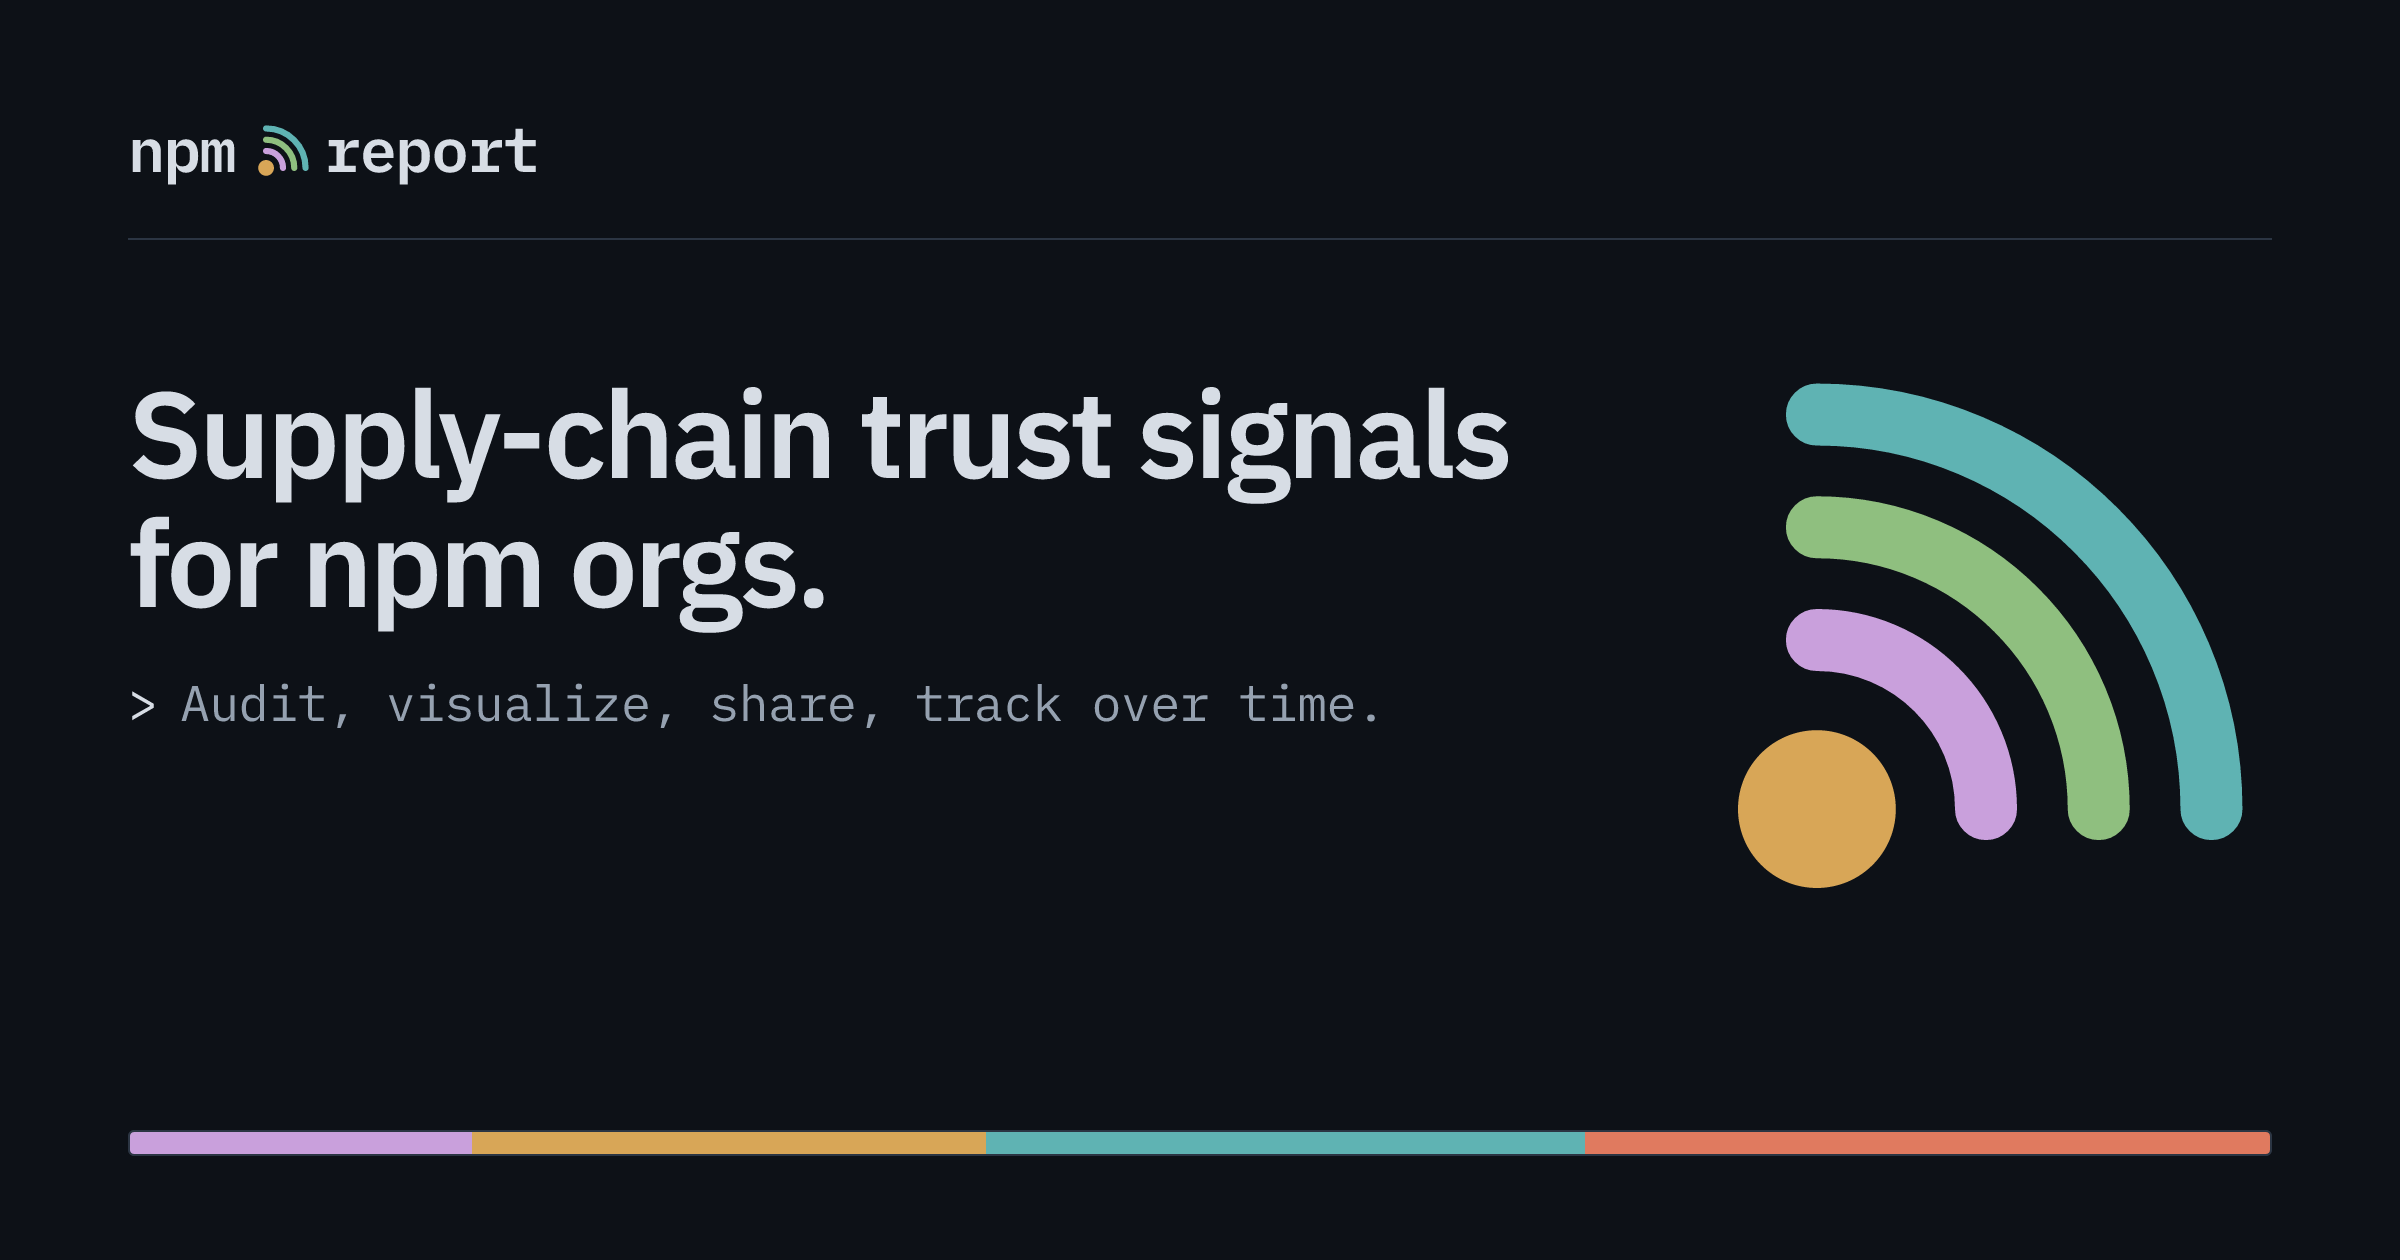
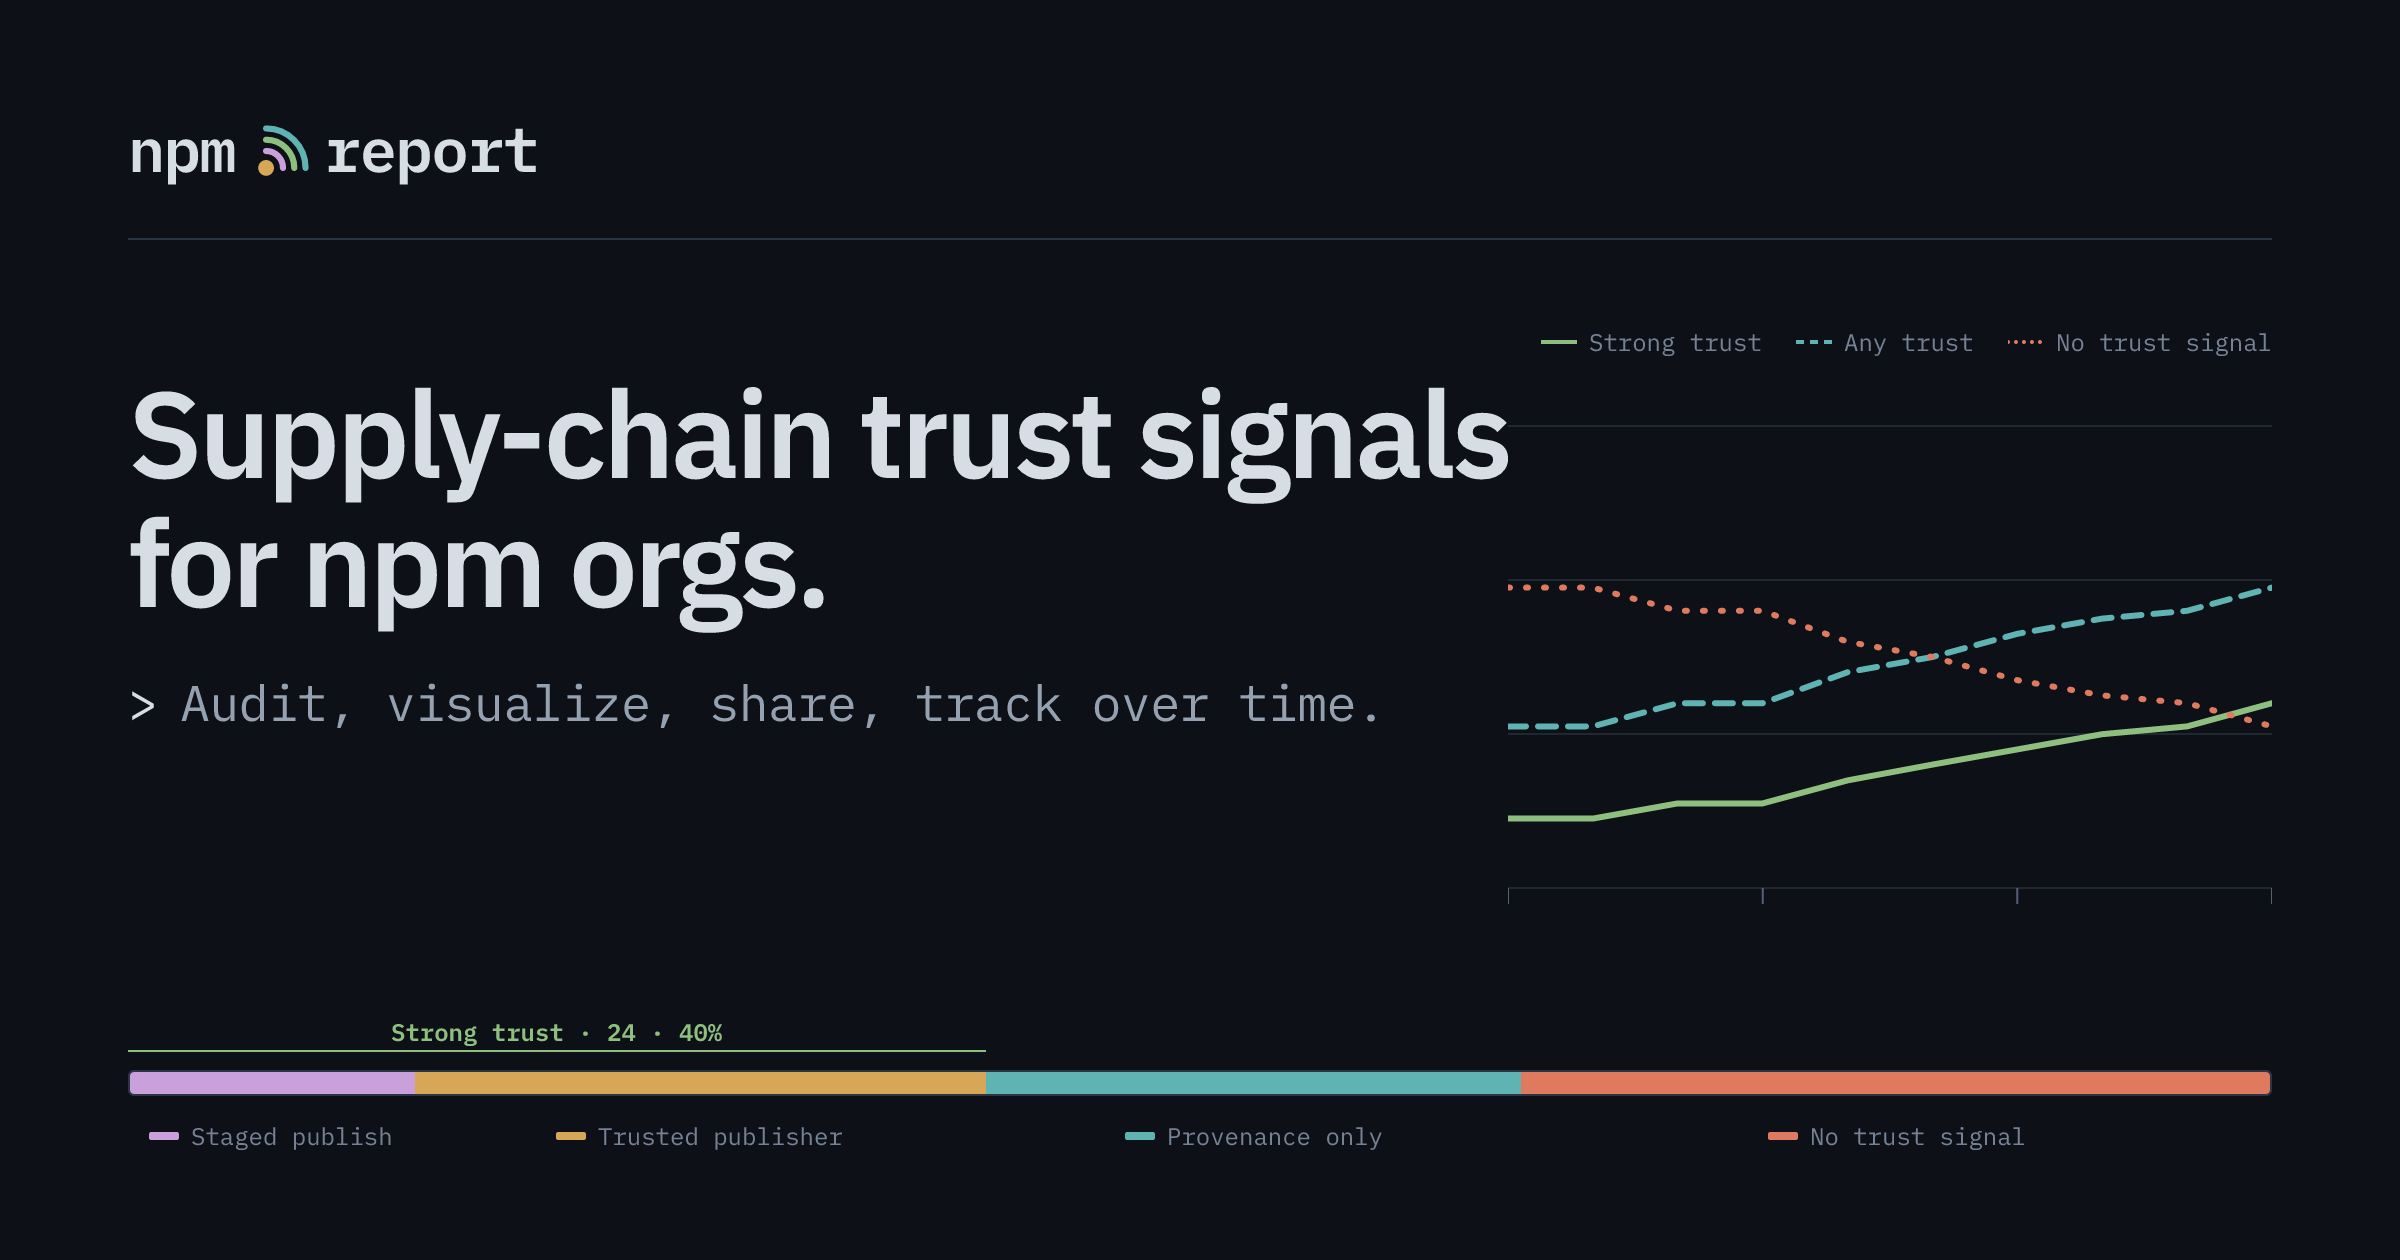
feat(og): add example charts to static OG (#4)
and refactor to reuse code between static and dynamic OG

diff --git a/netlify/functions/_shared/og-cards.ts b/netlify/functions/_shared/og-cards.ts
@@ -71,17 +71,33 @@ export const OG_CARD_STYLES = `
     flex: 0 0 auto;
     color: #d7dde5;
   }
-  .home-mark {
+  .home-chart {
     position: absolute;
     top: 165px;
-    right: 52px;
-    width: 310px;
-    height: 310px;
+    right: 64px;
+    width: 382px;
+    height: 294px;
+    display: flex;
+    flex-direction: column;
+    gap: 10px;
+  }
+  .home-chart svg {
+    display: block;
+    width: 100%;
+    height: 272px;
+  }
+  .home-chart .home-chart-legend {
+    justify-content: flex-end;
+  }
+  .home-strong-summary {
+    position: absolute;
+    top: 510px;
+    left: 64px;
   }
   .home-spectrum {
     position: absolute;
     right: 64px;
-    bottom: 52px;
+    bottom: 82px;
     left: 64px;
     display: flex;
     height: 13px;
@@ -90,10 +106,24 @@ export const OG_CARD_STYLES = `
     border-radius: 3px;
     background: #151b24;
   }
-  .home-spectrum span:nth-child(1) { width: 16%; background: #c9a0dc; }
-  .home-spectrum span:nth-child(2) { width: 24%; background: #d8a657; }
-  .home-spectrum span:nth-child(3) { width: 28%; background: #5fb3b3; }
-  .home-spectrum span:nth-child(4) { width: 32%; background: #e07a5f; }
+  .home-spectrum-key {
+    position: absolute;
+    top: 559px;
+    display: flex;
+    height: 18px;
+    align-items: center;
+    justify-content: center;
+    gap: 6px;
+    color: #758296;
+    font-family: "IBM Plex Mono";
+    font-size: 12px;
+    line-height: 18px;
+  }
+  .home-spectrum-swatch {
+    width: 15px;
+    height: 4px;
+    border-radius: 1px;
+  }
   .report-card {
     flex-direction: column;
     padding: 50px 56px 48px;
@@ -333,6 +363,27 @@ const TRUST_LEVELS = [
   { key: "none", label: "No trust signal", color: "#e07a5f", variant: "risk" },
 ] as const;
 
+type TrustSummary = NonNullable<ReportSocialRow["trust"]>;
+type TrendPoint = { x: number; strong: number; any: number; none: number };
+
+const HOME_TRUST: TrustSummary = {
+  total: 60,
+  byLevel: { stagedPublish: 8, trustedPublisher: 16, provenance: 15, none: 21 },
+};
+
+const HOME_TREND = [
+  { strong: 15, any: 35, none: 65 },
+  { strong: 15, any: 35, none: 65 },
+  { strong: 18.3, any: 40, none: 60 },
+  { strong: 18.3, any: 40, none: 60 },
+  { strong: 23.3, any: 46.7, none: 53.3 },
+  { strong: 26.7, any: 50, none: 50 },
+  { strong: 30, any: 55, none: 45 },
+  { strong: 33.3, any: 58.3, none: 41.7 },
+  { strong: 35, any: 60, none: 40 },
+  { strong: 40, any: 65, none: 35 },
+] as const;
+
 function escapeHtml(value: string): string {
   return value.replace(/[&<>"']/g, (character) => {
     switch (character) {
@@ -354,6 +405,78 @@ function wordmark(): string {
   return `<div class="wordmark"><span>npm</span><img src="${OG_LOGO_SOURCE}" /><span>report</span></div>`;
 }
 
+function chartLegendHtml(className = ""): string {
+  return `<div class="trend-legend${className ? ` ${className}` : ""}">
+    <span class="trend-key"><span class="trend-key-line trend-key-line--strong"></span>Strong trust</span>
+    <span class="trend-key"><span class="trend-key-line trend-key-line--any"></span>Any trust</span>
+    <span class="trend-key"><span class="trend-key-line trend-key-line--none"></span>No trust signal</span>
+  </div>`;
+}
+
+function trendChartSvg(
+  points: readonly TrendPoint[],
+  options: {
+    width: number;
+    height: number;
+    plotTop: number;
+    plotBottom: number;
+    strokeWidth: number;
+    anyDash: string;
+    noneDash: string;
+    gridValues: readonly number[];
+    tickPositions?: readonly number[];
+  },
+): string {
+  const { width, height, plotTop, plotBottom } = options;
+  const yAt = (value: number): number => plotTop + (1 - value / 100) * (plotBottom - plotTop);
+  const line = (key: "strong" | "any" | "none"): string =>
+    points
+      .map((point) => `${(point.x * width).toFixed(1)},${yAt(point[key]).toFixed(1)}`)
+      .join(" ");
+  const grid = options.gridValues
+    .map(
+      (value) =>
+        `<line x1="0" x2="${width}" y1="${yAt(value)}" y2="${yAt(value)}" stroke="#20272f" stroke-width="1" />`,
+    )
+    .join("");
+  const ticks = (options.tickPositions ?? [])
+    .map((position) => {
+      const x = position * width;
+      return `<line x1="${x}" x2="${x}" y1="${plotBottom}" y2="${plotBottom + 8}" stroke="#526075" stroke-width="1" />`;
+    })
+    .join("");
+
+  return `<svg viewBox="0 0 ${width} ${height}">${grid}${ticks}
+    <polyline points="${line("strong")}" fill="none" stroke="#8fbf7f" stroke-width="${options.strokeWidth}" stroke-linejoin="round" stroke-linecap="round" />
+    <polyline points="${line("any")}" fill="none" stroke="#5fb3b3" stroke-width="${options.strokeWidth}" stroke-dasharray="${options.anyDash}" stroke-linejoin="round" stroke-linecap="round" />
+    <polyline points="${line("none")}" fill="none" stroke="#e07a5f" stroke-width="${options.strokeWidth}" stroke-dasharray="${options.noneDash}" stroke-linejoin="round" stroke-linecap="round" />
+  </svg>`;
+}
+
+function homeChartHtml(): string {
+  const points = HOME_TREND.map((point, index) => ({
+    x: index / (HOME_TREND.length - 1),
+    strong: point.strong,
+    any: point.any,
+    none: point.none,
+  }));
+
+  return `<div class="home-chart">
+    ${chartLegendHtml("home-chart-legend")}
+    ${trendChartSvg(points, {
+      width: 382,
+      height: 272,
+      plotTop: 26,
+      plotBottom: 257,
+      strokeWidth: 3,
+      anyDash: "9 6",
+      noneDash: "1 8",
+      gridValues: [0, 100 / 3, 200 / 3, 100],
+      tickPositions: [0, 1 / 3, 2 / 3, 1],
+    })}
+  </div>`;
+}
+
 function percentage(count: number, total: number): string {
   const value = total > 0 ? (count / total) * 100 : 0;
   return `${value.toFixed(Number.isInteger(value) ? 0 : 1)}%`;
@@ -361,6 +484,40 @@ function percentage(count: number, total: number): string {
 
 function widthPercentage(count: number, total: number): string {
   return total > 0 ? `${(count / total) * 100}%` : "0%";
+}
+
+function strongTrustCount(trust: TrustSummary): number {
+  return trust.byLevel.stagedPublish + trust.byLevel.trustedPublisher;
+}
+
+function strongSummaryHtml(
+  trust: TrustSummary,
+  { className = "", width }: { className?: string; width?: number } = {},
+): string {
+  const strongTrust = strongTrustCount(trust);
+  const style = width === undefined ? "" : ` style="width:${width.toFixed(1)}px"`;
+  return `<div class="strong-summary${className ? ` ${className}` : ""}"${style}><span class="strong-summary-line">Strong trust · ${strongTrust.toLocaleString("en-US")} · ${percentage(strongTrust, trust.total)}</span></div>`;
+}
+
+function distributionHtml(trust: TrustSummary, className: string): string {
+  const segments = TRUST_LEVELS.map(
+    (level) =>
+      `<span style="width:${widthPercentage(trust.byLevel[level.key], trust.total)};background:${level.color}"></span>`,
+  ).join("");
+  return `<div class="${className}">${segments}</div>`;
+}
+
+function homeDistributionLegendHtml(trust: TrustSummary): string {
+  const left = 64;
+  const totalWidth = OG_LOGICAL_WIDTH - left * 2;
+  let offset = left;
+
+  return TRUST_LEVELS.map((level) => {
+    const width = trust.total > 0 ? (trust.byLevel[level.key] / trust.total) * totalWidth : 0;
+    const html = `<div class="home-spectrum-key" style="left:${offset.toFixed(1)}px;width:${width.toFixed(1)}px"><span class="home-spectrum-swatch" style="background:${level.color}"></span>${level.label}</div>`;
+    offset += width;
+    return html;
+  }).join("");
 }
 
 function shortDate(date: Date): string {
@@ -384,52 +541,45 @@ function trendHtml(history: ReportSocialRow["history"]): string {
   if (history.length <= 1) return "";
 
   const width = 1088;
-  const plotTop = 3;
-  const plotBottom = 61;
   const firstTime = history[0].capturedAt.getTime();
   const lastTime = history.at(-1)!.capturedAt.getTime();
-  const xAt = (index: number): number => {
-    if (lastTime <= firstTime) return (index / (history.length - 1)) * width;
-    return ((history[index].capturedAt.getTime() - firstTime) / (lastTime - firstTime)) * width;
-  };
-  const yAt = (value: number): number => plotTop + (1 - value / 100) * (plotBottom - plotTop);
-  const line = (count: (point: ReportSocialRow["history"][number]) => number): string =>
-    history
-      .map((point, index) => {
-        const value = point.total > 0 ? (count(point) / point.total) * 100 : 0;
-        return `${xAt(index).toFixed(1)},${yAt(value).toFixed(1)}`;
-      })
-      .join(" ");
-
-  const strong = line((point) => point.byLevel.stagedPublish + point.byLevel.trustedPublisher);
-  const any = line((point) => point.total - point.byLevel.none);
-  const none = line((point) => point.byLevel.none);
-  const grid = [0, 50, 100]
-    .map(
-      (value) =>
-        `<line x1="0" x2="${width}" y1="${yAt(value)}" y2="${yAt(value)}" stroke="#20272f" stroke-width="1" />`,
-    )
-    .join("");
+  const points: TrendPoint[] = history.map((point, index) => {
+    const x =
+      lastTime <= firstTime
+        ? index / (history.length - 1)
+        : (point.capturedAt.getTime() - firstTime) / (lastTime - firstTime);
+    const percent = (count: number): number => (point.total > 0 ? (count / point.total) * 100 : 0);
+    return {
+      x,
+      strong: percent(point.byLevel.stagedPublish + point.byLevel.trustedPublisher),
+      any: percent(point.total - point.byLevel.none),
+      none: percent(point.byLevel.none),
+    };
+  });
 
   return `<div class="trend">
     <div class="trend-head">
       <span class="trend-title">Progress over time</span>
-      <div class="trend-legend">
-        <span class="trend-key"><span class="trend-key-line trend-key-line--strong"></span>Strong trust</span>
-        <span class="trend-key"><span class="trend-key-line trend-key-line--any"></span>Any trust</span>
-        <span class="trend-key"><span class="trend-key-line trend-key-line--none"></span>No trust signal</span>
-      </div>
+      ${chartLegendHtml()}
     </div>
-    <svg viewBox="0 0 ${width} 64">${grid}
-      <polyline points="${strong}" fill="none" stroke="#8fbf7f" stroke-width="2.2" stroke-linejoin="round" stroke-linecap="round" />
-      <polyline points="${any}" fill="none" stroke="#5fb3b3" stroke-width="2.2" stroke-dasharray="7 4" stroke-linejoin="round" stroke-linecap="round" />
-      <polyline points="${none}" fill="none" stroke="#e07a5f" stroke-width="2.2" stroke-dasharray="1 5" stroke-linejoin="round" stroke-linecap="round" />
-    </svg>
+    ${trendChartSvg(points, {
+      width,
+      height: 64,
+      plotTop: 3,
+      plotBottom: 61,
+      strokeWidth: 2.2,
+      anyDash: "7 4",
+      noneDash: "1 5",
+      gridValues: [0, 50, 100],
+    })}
     <div class="trend-dates"><span>${shortDate(history[0].capturedAt)}</span><span>${shortDate(history.at(-1)!.capturedAt)}</span></div>
   </div>`;
 }
 
 export function homeCardHtml(): string {
+  const distributionWidth = OG_LOGICAL_WIDTH - 128;
+  const strongWidth = (strongTrustCount(HOME_TRUST) / HOME_TRUST.total) * distributionWidth;
+
   return `<div class="card home-card">
     ${wordmark()}
     <div class="home-rule"></div>
@@ -437,8 +587,10 @@ export function homeCardHtml(): string {
       <div class="home-title">Supply-chain trust signals<br />for npm orgs.</div>
       <div class="home-subtitle"><span class="home-caret">&gt;</span><span>Audit, visualize, share, track over time.</span></div>
     </div>
-    <img class="home-mark" src="${OG_LOGO_SOURCE}" />
-    <div class="home-spectrum"><span></span><span></span><span></span><span></span></div>
+    ${homeChartHtml()}
+    ${strongSummaryHtml(HOME_TRUST, { className: "home-strong-summary", width: strongWidth })}
+    ${distributionHtml(HOME_TRUST, "home-spectrum")}
+    ${homeDistributionLegendHtml(HOME_TRUST)}
   </div>`;
 }
 
@@ -459,12 +611,6 @@ export function reportCardHtml(report: ReportSocialRow): string {
   }
 
   const { total, byLevel } = report.trust;
-  const distribution = TRUST_LEVELS.map(
-    (level) =>
-      `<span style="width:${widthPercentage(byLevel[level.key], total)};background:${level.color}"></span>`,
-  ).join("");
-  const strongTrust = byLevel.stagedPublish + byLevel.trustedPublisher;
-  const strongSummary = `<div class="strong-summary"><span class="strong-summary-line">Strong trust · ${strongTrust.toLocaleString("en-US")} · ${percentage(strongTrust, total)}</span></div>`;
   const metrics = TRUST_LEVELS.map((level) => {
     const count = byLevel[level.key];
     return `<div class="metric metric--${level.variant}">
@@ -477,6 +623,6 @@ export function reportCardHtml(report: ReportSocialRow): string {
     <div class="report-top">${wordmark()}<div class="snapshot">${snapshotHtml(report)}</div></div>
     ${title}
     ${trendHtml(report.history)}
-    <div class="trust-block">${strongSummary}<div class="metrics">${metrics}</div><div class="distribution">${distribution}</div></div>
+    <div class="trust-block">${strongSummaryHtml(report.trust)}<div class="metrics">${metrics}</div>${distributionHtml(report.trust, "distribution")}</div>
   </div>`;
 }

diff --git a/netlify/tests/report-og.test.ts b/netlify/tests/report-og.test.ts
@@ -67,6 +67,15 @@ describe("report OG image function", () => {
     expect(html).toContain("Supply-chain trust signals");
     expect(html).toContain("for npm orgs.");
     expect(html).toContain("Audit, visualize, share, track over time.");
+    expect(html).toContain('class="home-chart"');
+    expect(html).toContain('class="home-spectrum"');
+    expect(html).toContain("Strong trust");
+    expect(html).toContain("24 · 40%");
+    expect(html).toContain("Any trust");
+    expect(html).toContain("No trust signal");
+    expect(html).toContain("Staged publish");
+    expect(html).toContain("Trusted publisher");
+    expect(html).toContain("Provenance only");
   });
 
   it("renders the homepage card at the social-image dimensions", async () => {
